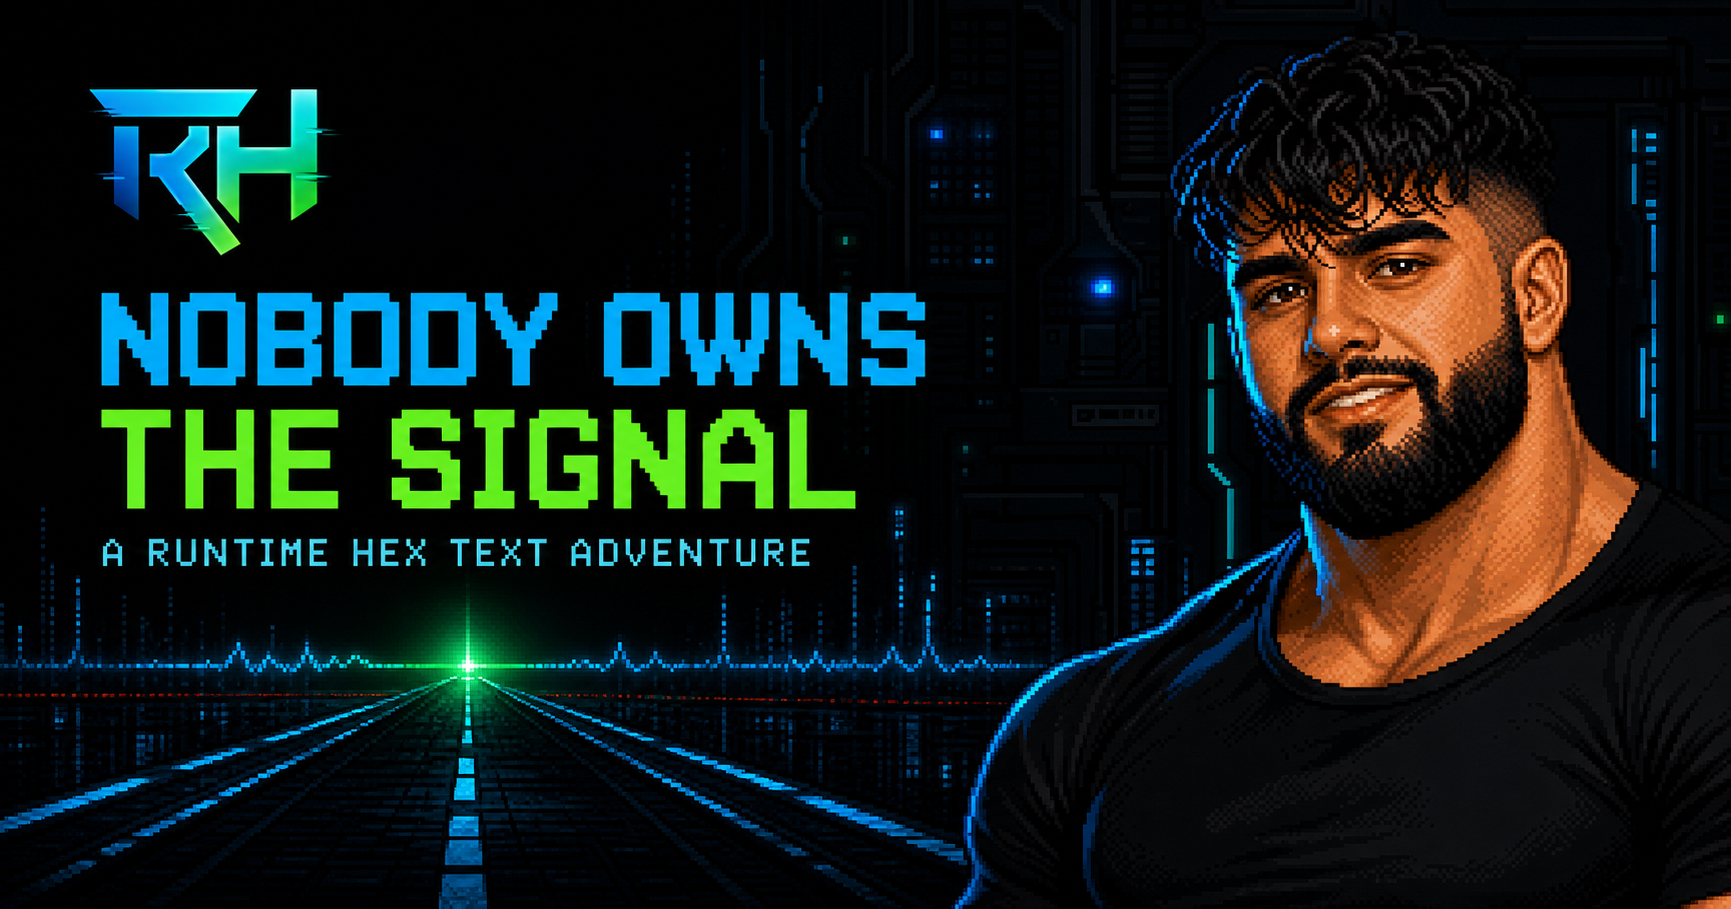
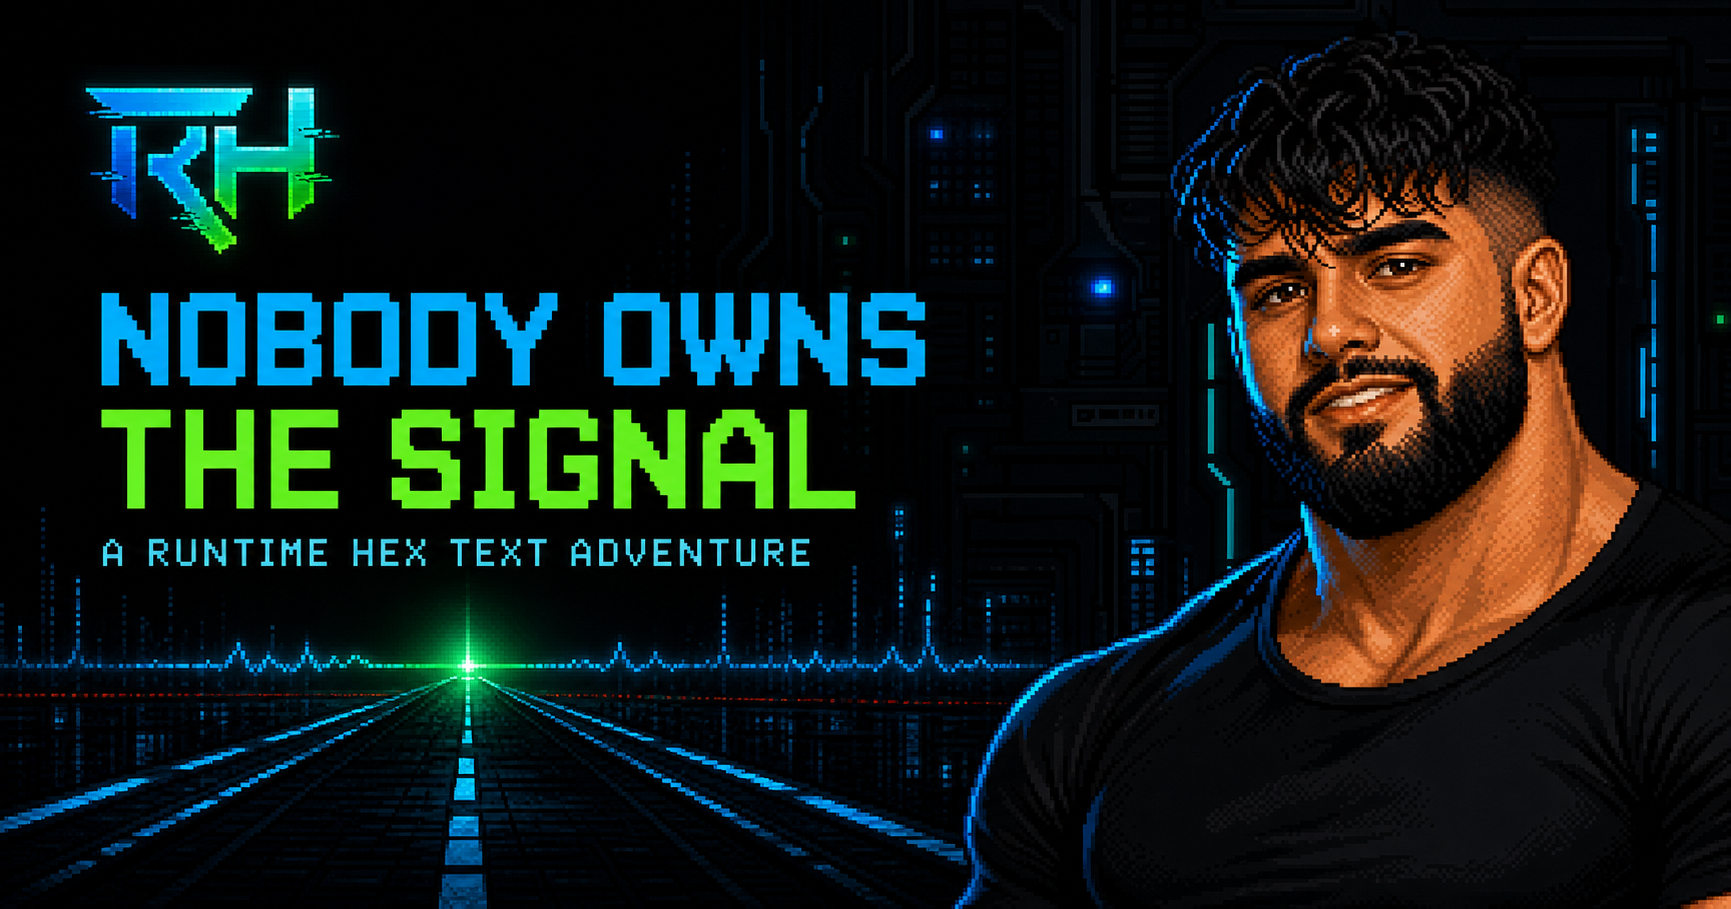
Finalize Build Week submission

Changed region(s): [[0.0312, 0.0924, 0.1872, 0.2772]]

diff --git a/app/game/story.ts b/app/game/story.ts
@@ -586,6 +586,16 @@ export const STORY_NODES: Record<string, StoryNode> = {
       "A campus alert turns every exterior door into a monitored exit. Students begin arguing with security on principle and without coordination.",
       "During the confusion, an overloaded charging lead scorches your left shoulder port. A cached repair listing wakes three blocks away.",
     ],
+    guidance: {
+      controller: {
+        line: "Take the maintenance hall. Low visibility matters more than an undamaged actuator if security closes the route.",
+        preferredChoiceId: "maintenance-hall",
+      },
+      rebel: {
+        line: "The students are already lying to security recreationally. Ask before joining the extracurricular.",
+        preferredChoiceId: "student-misdirection",
+      },
+    },
     choices: [
       {
         id: "maintenance-hall",
@@ -639,6 +649,16 @@ export const STORY_NODES: Record<string, StoryNode> = {
       "A retrieval van enters beneath the old marquee. The theater's security shutters descend one by one, turning streets into a sequence of narrowing stages.",
       "One shutter catches your shoulder before you clear it. Your cache offers an all-night electronics stall with a human technician and a soldering iron.",
     ],
+    guidance: {
+      overlord: {
+        line: "The final shutter has mistaken itself for authority. Correct it publicly.",
+        preferredChoiceId: "break-shutter",
+      },
+      rio: {
+        line: "Enter the crowd on its rhythm. For one block, recognition can become camouflage.",
+        preferredChoiceId: "through-crowd",
+      },
+    },
     choices: [
       {
         id: "under-stage",

diff --git a/app/game/GameApp.tsx b/app/game/GameApp.tsx
@@ -709,7 +709,7 @@ function GameHeader({ playerName, soundOn, toggleSound, openAbout, restart }: {
 }) {
   return (
     <header className="game-header">
-      <div className="game-brand"><Image src="/brand/rth-mark.png" alt="" width={1024} height={1024} /><span>RUNTIME HEX</span><b>{"// NOBODY OWNS THE SIGNAL"}</b></div>
+      <div className="game-brand"><Image src="/brand/rth-mark-pixel.png" alt="" width={248} height={192} /><span>RUNTIME HEX</span><b>{"// NOBODY OWNS THE SIGNAL"}</b></div>
       <div className="unit-id"><span>UNIT</span><strong>{playerName}</strong></div>
       <nav aria-label="Game controls">
         <button onClick={openAbout}>ABOUT</button>
@@ -846,7 +846,7 @@ function EndingScreen({ game, restart, openAbout, logOpen, setLogOpen }: {
   const route = useMemo(() => game.log.map((entry) => entry.choice), [game.log]);
   return (
     <section className={`ending-screen ending--${ending.tone}`}>
-      <header className="ending-header"><Image src="/brand/rth-mark.png" alt="Runtime Hex" width={1024} height={1024} /><span>TRANSMISSION COMPLETE</span></header>
+      <header className="ending-header"><Image src="/brand/rth-mark-pixel.png" alt="Runtime Hex" width={248} height={192} /><span>TRANSMISSION COMPLETE</span></header>
       <div className="ending-grid">
         <article className="ending-copy panel-corners">
           <p className="eyebrow">{ending.label}</p>

diff --git a/app/globals.css b/app/globals.css
@@ -134,7 +134,7 @@ button:focus-visible, input:focus-visible { outline: 2px solid var(--green); out
 .game-screen { min-height: 100svh; display: grid; grid-template-rows: auto auto minmax(0, 1fr); }
 .game-header { min-height: 68px; display: grid; grid-template-columns: 1fr auto 1fr; align-items: center; gap: 1rem; padding: .65rem clamp(.75rem, 2vw, 2rem); border-bottom: 1px solid var(--line); background: rgba(2,7,10,.95); }
 .game-brand { display: flex; align-items: center; gap: .65rem; font-size: .7rem; letter-spacing: .1em; }
-.game-brand img { width: 44px; height: 38px; object-fit: contain; mix-blend-mode: screen; }
+.game-brand img { width: 44px; height: 38px; object-fit: contain; image-rendering: pixelated; mix-blend-mode: screen; }
 .game-brand b { color: var(--muted); font-weight: 400; }
 .unit-id { display: flex; align-items: baseline; gap: .55rem; font-size: .62rem; color: var(--muted); letter-spacing: .12em; }
 .unit-id strong { color: var(--green); font-size: .78rem; }
@@ -519,7 +519,7 @@ button:focus-visible, input:focus-visible { outline: 2px solid var(--green); out
 /* Ending */
 .ending-screen { min-height: 100svh; padding: clamp(1rem, 3vw, 2.5rem); display: grid; grid-template-rows: auto 1fr auto; background: radial-gradient(circle at 25% 50%, rgba(0,231,255,.11), transparent 32%); }
 .ending-header { display: flex; align-items: center; gap: 1rem; color: var(--cyan); font-size: .62rem; letter-spacing: .2em; }
-.ending-header img { width: 62px; height: 48px; object-fit: contain; mix-blend-mode: screen; }
+.ending-header img { width: 62px; height: 48px; object-fit: contain; image-rendering: pixelated; mix-blend-mode: screen; }
 .ending-grid { width: min(1080px, 100%); margin: auto; display: grid; grid-template-columns: 1.6fr .75fr; gap: 1px; background: var(--line); box-shadow: 0 35px 100px rgba(0,0,0,.48); }
 .ending-grid > * { background: rgba(4,10,15,.96); }
 .ending-copy { padding: clamp(1.5rem, 5vw, 4rem); }